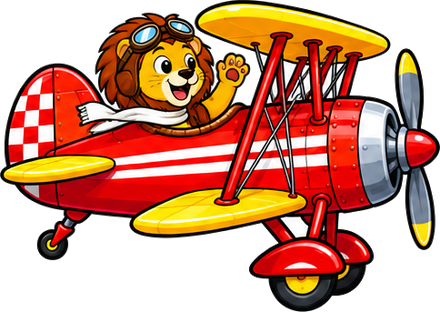
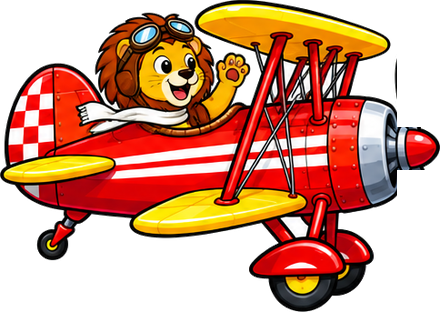
Mathe-Erlebnisse: Flugzeug-Propeller dreht sich, neue Möwen mit Zielfähnchen und echtem Flügelschlag (4 Bilder), Schiffsschraube genau am Motor

Changed region(s): [[0.8864, 0.5192, 1.0, 0.8077], [0.8864, 0.1442, 0.975, 0.4327]]

diff --git a/spiele/mathe-wanderung/welten.js b/spiele/mathe-wanderung/welten.js
@@ -318,24 +318,18 @@ WELTEN.joggen = {
 };
 
 /* ---------- Kunstflug: zwei Möwen tragen je ein kariertes Zielfähnchen ---------- */
-/** kariertes Fähnchen an einem Stab, den die Möwe in den Krallen hält (x, y = Krallen) */
-function moewenFahne(x, y) {
-  let felder = '';
-  for (let r = 0; r < 3; r++) for (let c = 0; c < 4; c++) if ((r + c) % 2 === 0) felder += `<rect x="${3 + c * 11}" y="${8 + r * 10}" width="11" height="10" fill="${K}"/>`;
-  return `<g transform="translate(${x} ${y})">
-    <rect x="-2" y="-4" width="5" height="70" rx="2" fill="#8d6e63" stroke="${K}" stroke-width="2"/>
-    <g class="weht"><rect x="3" y="8" width="44" height="30" fill="#fff" stroke="${K}" stroke-width="2.5"/>${felder}</g></g>`;
-}
 WELTEN.flugzeug = {
   name: 'Kunstflug', art: 'fahren', fahrzeug: 'flugzeug', looping: true, feier: 'sterne',
   bild: 'bilder/welten/flugzeug.jpg', himmelOben: '#1e88e5',
   wege: Array.from({ length: STUFEN + 1 }, (_, i) => [360 + i * 88, i % 2 ? 270 : 295, 0, 1]),
   hinten() {
-    const moewe = (x, y, verz) => `<g class="moewe-gruppe" style="--v:${verz}s">${moewenFahne(x - 2, y + 30)}<g class="moewe" style="--v:${verz}s">
-        ${bildSvg(TEILE + 'moewe-oben.png', x - 46, y - 50, 92, 100, 'class="fluegel-oben"')}
-        ${bildSvg(TEILE + 'moewe-unten.png', x - 50, y - 33, 100, 84, 'class="fluegel-unten"')}</g></g>`;
+    // Möwe mit Zielfähnchen (ChatGPT): 4 Bilder eines Flügelschlags im Wechsel; Stab-Ende bei (x, y)
+    const moewe = (x, y, verz) => {
+      const b = 120, h = 123, ax = 54.7, ay = 121;
+      return `<g class="moewe4" style="--v:${verz}s">${[1, 2, 3, 4].map(i => bildSvg(TEILE + `moewe-${i}.png`, x - ax, y - ay, b, h, `class="m${i}"`)).join('')}</g>`;
+    };
     return zeichen(this.wege, ([x, y]) => `<g class="marke" fill="#fff" stroke="${K}" stroke-width="1.5" opacity=".8"><circle cx="${x}" cy="${y - 130}" r="6"/><circle cx="${x + 10}" cy="${y - 133}" r="4.5"/></g>`)
-      + moewe(1240, 110, 0) + moewe(1255, 360, 0.17);
+      + moewe(1240, 190, 0) + moewe(1262, 440, -0.21);
   }
 };
 
@@ -426,6 +420,10 @@ const teil = (datei, x, y, b, h, klasse = '') => `<img class="teil-bild ${klasse
 /** Fahrzeug mit Tier als ein Bild (bilder/fahrzeuge/<art>-<tier>.png), unten bündig */
 const FAHRZEUGE = 'bilder/fahrzeuge/';
 /* Lage der Schiffsschraube im Bootsbild (Bild-Pixel, 440 breit): x, y, Breite, Höhe */
+/* Propeller im Flugzeugbild (Bild-Pixel, 440 breit): x, y, Breite, Höhe, Höhe der Nabe im Stück */
+const FLUG_PROPELLER = {"baer":[397,46,43,206,102],"loewe":[397,46,43,207,102],"tiger":[397,46,43,206,102],"elefant":[395,34,45,212,109],"fuchs":[395,35,45,211,108],"wolf":[394,35,46,210,107],"adler":[392,36,48,206,108],"hai":[391,36,49,206,108],"erdmaennchen":[392,35,48,207,110]};
+/* Höhe der Fahrzeugbilder (Bild-Pixel), damit die Teile genau sitzen (die Bilder stehen unten bündig) */
+const FLUG_HOEHE = {"baer":311,"loewe":312,"tiger":311,"elefant":306,"fuchs":306,"wolf":305,"adler":305,"hai":305,"erdmaennchen":306}, BOOT_HOEHE = {"baer":322,"loewe":330,"tiger":320,"elefant":308,"fuchs":314,"wolf":313,"adler":305,"hai":300,"erdmaennchen":301};
 const BOOT_SCHRAUBE = {"baer":[0,259,26,57],"loewe":[0,263,26,61],"tiger":[0,253,26,61],"elefant":[0,249,26,55],"fuchs":[0,255,26,55],"wolf":[0,255,26,54],"adler":[0,252,26,51],"hai":[0,247,26,51],"erdmaennchen":[0,248,26,51]};
 const fahrt = (art, tier, b, x = 0, klasse = '') => `<img class="teil-bild fahrt ${klasse}" src="${FAHRZEUGE}${art}-${tier}.png" alt="" style="left:${r1(x)}px;bottom:0;width:${r1(b)}px;height:auto">`;
 function figur(tier, b, h, x = 0, y = 0) {
@@ -440,15 +438,17 @@ function akteur(welt, tier) {
   if (art === 'boot') {         // Tier sitzt am Steuer (ein Bild pro Tier, ChatGPT, 440 breit)
     const b = 300, h = 222, k = b / 440, [sx, sy, sb, sh] = BOOT_SCHRAUBE[tier] || [0, 0, 0, 0];
     // die Schiffsschraube am Aussenborder ist ein eigenes Bildstück und dreht sich
-    return { b, h, haken: 150, html: (sb ? `<img class="teil-bild propeller" src="${FAHRZEUGE}boot-${tier}-schraube.png" alt="" style="left:${r1(sx * k)}px;top:${r1(sy * k)}px;width:${r1(sb * k)}px;height:${r1(sh * k)}px">` : '') + fahrt('boot', tier, b) };
+    return { b, h, haken: 150, html: (sb ? `<img class="teil-bild propeller" src="${FAHRZEUGE}boot-${tier}-schraube.png" alt="" style="left:${r1(sx * k)}px;top:${r1(h - (BOOT_HOEHE[tier] || 322) * k + sy * k)}px;width:${r1(sb * k)}px;height:${r1(sh * k)}px">` : '') + fahrt('boot', tier, b) };
   }
   if (art === 'schlitten') {    // Tier sitzt mit Schal auf dem Schlitten (ein Bild pro Tier, ChatGPT, 420 breit)
     const b = 250, h = 266;
     return { b, h, haken: 170, html: fahrt('schlitten', tier, b) };
   }
   if (art === 'flugzeug') {     // Pilot mit Fliegerbrille und Schal im Cockpit (ein Bild pro Tier, ChatGPT, 440 breit)
-    const b = 260, h = 183;
-    return { b, h, haken: 120, html: fahrt('flug', tier, b) };
+    const b = 260, k = b / 440, h = 183, [px, py, pb, ph, nabe] = FLUG_PROPELLER[tier] || [0, 0, 0, 0, 0];
+    const H = Math.round((FLUG_HOEHE[tier] || 311) * k);
+    // Propeller ist ein eigenes Bildstück hinter der Nase und dreht sich (Achse waagrecht → wird abwechselnd schmal)
+    return { b, h, haken: 120, html: (pb ? `<img class="teil-bild propeller" src="${FAHRZEUGE}flug-${tier}-propeller.png" alt="" style="left:${r1(px * k)}px;top:${r1(h - H + py * k)}px;width:${r1(pb * k)}px;height:${r1(ph * k)}px;transform-origin:50% ${r1(nabe * k)}px">` : '') + fahrt('flug', tier, b) };
   }
   if (art === 'uboot') {        // U-Boot 440×319 → 300 breit; Kopf im grossen Bullauge
     const b = 300, h = 218, cx = 242, cy = 157, r = 40;

diff --git a/spiele/mathe-wanderung/style.css b/spiele/mathe-wanderung/style.css
@@ -297,11 +297,6 @@ body { background: #eef7e8; }
 #akteur.art-schlitten .akteur-innen { animation: ruetteln .3s linear infinite; }
 /* Spielautomat: Tier zieht den Hebel nach unten */
 /* Möwen mit Flügelschlag, die das Zielband tragen */
-.moewe .fluegel-oben { animation: fluegelOben .36s steps(1) infinite; animation-delay: var(--v); }
-.moewe .fluegel-unten { animation: fluegelUnten .36s steps(1) infinite; animation-delay: var(--v); }
-@keyframes fluegelOben { 0% { opacity: 1; } 50% { opacity: 0; } }
-@keyframes fluegelUnten { 0% { opacity: 0; } 50% { opacity: 1; } }
-.moewe-gruppe { animation: schweben 1.4s ease-in-out infinite; animation-delay: var(--v); }
 
 /* =========================================================
    Level geschafft: kleine Zusatz-Effekte
@@ -355,3 +350,12 @@ body { background: #eef7e8; }
   35% { transform: translate(calc(var(--dx) * .45), var(--hoch)); animation-timing-function: ease-in; }
   100% { opacity: 1; transform: translate(var(--dx), var(--fall)); }
 }
+
+/* Möwen mit Fähnchen: 4 Bilder eines Flügelschlags im Wechsel, dazu leichtes Schweben */
+.moewe4 { animation: schweben 1.4s ease-in-out infinite; animation-delay: var(--v); }
+.moewe4 image { opacity: 0; animation: moeweBild .5s steps(1) infinite; animation-delay: var(--v); }
+.moewe4 .m1 { animation-name: moeweBild1; } .moewe4 .m2 { animation-name: moeweBild2; } .moewe4 .m3 { animation-name: moeweBild3; } .moewe4 .m4 { animation-name: moeweBild4; }
+@keyframes moeweBild1 { 0% { opacity: 1; } 25%, 100% { opacity: 0; } }
+@keyframes moeweBild2 { 0% { opacity: 0; } 25% { opacity: 1; } 50%, 100% { opacity: 0; } }
+@keyframes moeweBild3 { 0%, 25% { opacity: 0; } 50% { opacity: 1; } 75%, 100% { opacity: 0; } }
+@keyframes moeweBild4 { 0%, 50% { opacity: 0; } 75% { opacity: 1; } 100% { opacity: 0; } }

diff --git a/README.md b/README.md
@@ -71,7 +71,7 @@ Bild `spiele/mathe-fussball/bilder/vogel.png` und die Bilder in `spiele/mathe-fu
 
 Bilder in `spiele/uhr-lesen/bilder/` (Tiere mit Fackel, gebückte Tiere beim Zünden, Flammenbilder für die flackernde Fackel, Rakete mit Zündschnüren, Wecker, Abendlandschaft, Fuchs mit Uhr für die Startseite) erstellt mit ChatGPT. Uhren, Zeiger, rote Segment-Ziffern, Zündschnur und Feuerwerk sind im Code gezeichnet (`uhr.js`, `spiel.js`). Uhr lesen verwendet zusätzlich die Töne `richtig.mp3`, `falsch.mp3` und `tick.wav`, die Tierköpfe, die jubelnden Figuren und den Vogel aus Mathe-Fussball; Zischen, Heulen und Knall der Rakete werden im Code erzeugt.
 
-Mathe-Erlebnisse: Mit ChatGPT erstellt sind der Bär-Wanderer (`spiele/mathe-wanderung/bilder/baer-wandern.png`), die 14 Welt-Hintergründe (`bilder/welten/`, mit den aufgesprühten Ziellinien und dem Landeplatz im Gras; den Schriftzug «Zuzi-Bahn» auf dem Zug haben wir selbst perspektivisch eingesetzt), die Maschinen, das Steuerpult, das U-Boot, Möwen und die Münze (`bilder/teile/`), die Fahrzeuge mit jedem Tier am Steuer (Buggy, Boot, Flugzeug mit Fliegerbrille, Schlitten, Gleitschirm mit Gurtzeug; `bilder/fahrzeuge/`) und die Posen zum Hebelziehen (`bilder/hebel/`). Ortsnamen («Zuzwil», «Aadorf»), Fahnen, Stufen-Zeichen, Zielband, Windsack, Hebel, Kabel und Kran sind im Code gezeichnet (`welten.js`, `index.html`). Das Spiel benutzt die Tierfiguren, Tierköpfe, den Vogel und die Töne von Mathe-Fussball. Das Kran-Geräusch `spiele/mathe-wanderung/toene/kran-hydraulik.mp3` ist «Homemade hydraulic hoist» von chainsaw_dinner_party (Freesound) über Pixabay (https://pixabay.com/sound-effects/technology-homemade-hydraulic-hoist-30527/, Pixabay Content License); das Spiel spielt nur Ausschnitte daraus, ohne die gesprochenen Worte am Anfang.
+Mathe-Erlebnisse: Mit ChatGPT erstellt sind der Bär-Wanderer (`spiele/mathe-wanderung/bilder/baer-wandern.png`), die 14 Welt-Hintergründe (`bilder/welten/`, mit den aufgesprühten Ziellinien und dem Landeplatz im Gras; den Schriftzug «Zuzi-Bahn» auf dem Zug haben wir selbst perspektivisch eingesetzt), die Maschinen, das Steuerpult, das U-Boot, die Möwen mit Zielfähnchen (4 Bilder eines Flügelschlags) und die Münze (`bilder/teile/`), die Fahrzeuge mit jedem Tier am Steuer (Buggy, Boot, Flugzeug mit Fliegerbrille, Schlitten, Gleitschirm mit Gurtzeug; `bilder/fahrzeuge/`) und die Posen zum Hebelziehen (`bilder/hebel/`). Ortsnamen («Zuzwil», «Aadorf»), Fahnen, Stufen-Zeichen, Zielband, Windsack, Hebel, Kabel und Kran sind im Code gezeichnet (`welten.js`, `index.html`). Das Spiel benutzt die Tierfiguren, Tierköpfe, den Vogel und die Töne von Mathe-Fussball. Das Kran-Geräusch `spiele/mathe-wanderung/toene/kran-hydraulik.mp3` ist «Homemade hydraulic hoist» von chainsaw_dinner_party (Freesound) über Pixabay (https://pixabay.com/sound-effects/technology-homemade-hydraulic-hoist-30527/, Pixabay Content License); das Spiel spielt nur Ausschnitte daraus, ohne die gesprochenen Worte am Anfang.
 
 Einkaufen: Die Bilder in `spiele/einkaufen/bilder/` (Laden-Hintergrund, 30 Produkte in `produkte/`, Kassiererin, Goldsäckchen, Elefant mit Einkaufskorb) wurden mit ChatGPT erstellt. Regal, Kühlschrank, Kasse, Preisschilder, die aufgestickten Zahlen und die Münzen sind im Code gezeichnet (`style.css`, `spiel.js`). Das Spiel benutzt die Töne `richtig.mp3`, `falsch.mp3`, `tick.wav` und `jubel.mp3`, die Tierköpfe, die jubelnden Figuren und den Vogel von Mathe-Fussball; das Klimpern der Münzen wird im Code erzeugt.
 
